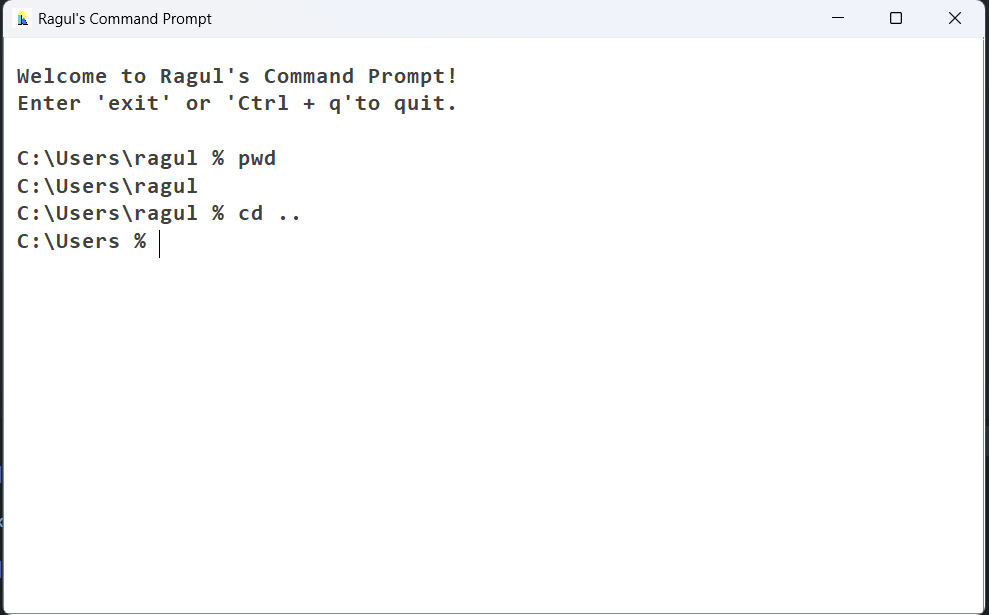
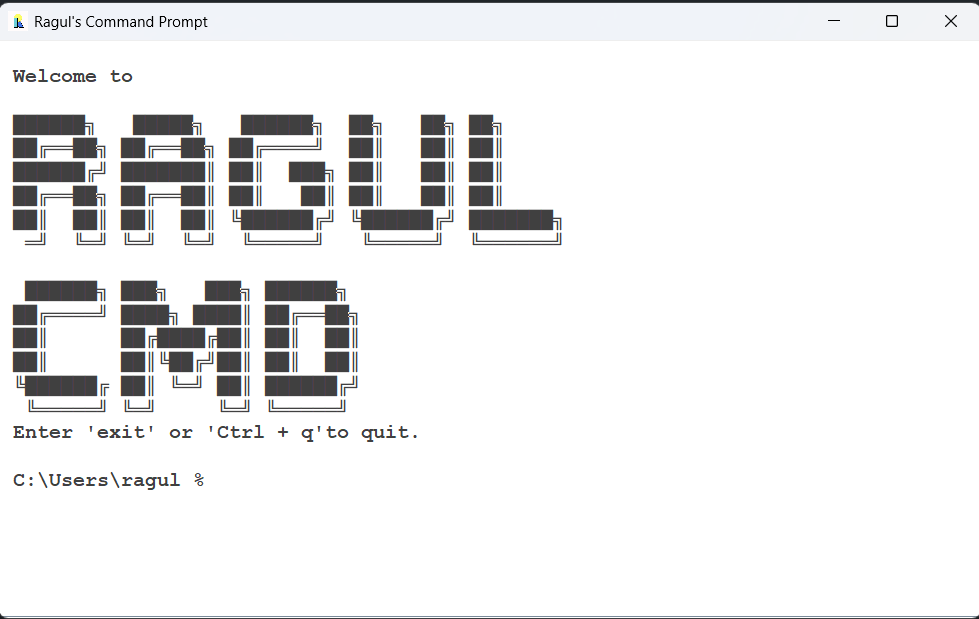
Improved retro style like landing page.

Changed region(s): [[0.0, 0.0, 1.0, 1.0]]

diff --git a/style.css b/style.css
@@ -74,7 +74,7 @@ code {
 
 .screenshot-section h2 {
     margin-bottom: 15px;
-    color: #ff6b6b;
+    color: #e4ff6b;
 }
 
 .screenshot {

diff --git a/CommandPrompt.java b/CommandPrompt.java
@@ -35,9 +35,24 @@ public class CommandPrompt {
         terminalArea.setWrapStyleWord(true);
         terminalArea.setBackground(Color.WHITE);
         terminalArea.setForeground(Color.DARK_GRAY);
-        terminalArea.setFont(new Font("Consolas", Font.BOLD, 18));
-        terminalArea.append("\nWelcome to Ragul's Command Prompt!\n");
-        terminalArea.append("Enter 'exit' or 'Ctrl + q'to quit.\n");
+        terminalArea.setFont(new Font("Courier New", Font.BOLD, 16));
+        terminalArea.append("\nWelcome to\n");
+        terminalArea.append("\n██████╗   █████╗   ██████╗  ██╗   ██╗ ██╗      ");
+        terminalArea.append("\n██╔══██╗ ██╔══██╗ ██╔════╝  ██║   ██║ ██║      ");
+        terminalArea.append("\n██████╔╝ ███████║ ██║  ███╗ ██║   ██║ ██║      ");
+        terminalArea.append("\n██╔══██╗ ██╔══██║ ██║   ██║ ██║   ██║ ██║      ");
+        terminalArea.append("\n██║  ██║ ██║  ██║ ╚██████╔╝ ╚██████╔╝ ███████╗ ");
+        terminalArea.append("\n ═╝  ╚═╝ ╚═╝  ╚═╝  ╚═════╝   ╚═════╝  ╚══════╝ \n");
+
+        terminalArea.append("\n ██████╗ ███╗   ███╗ ██████╗   ");
+        terminalArea.append("\n██╔════╝ ████╗ ████║ ██╔══██╗  ");
+        terminalArea.append("\n██║      ██╔████╔██║ ██║  ██║  ");
+        terminalArea.append("\n██║      ██║╚██╔╝██║ ██║  ██║   ");
+        terminalArea.append("\n╚██████╔ ██║ ╚═╝ ██║ ██████╔╝   ");
+        terminalArea.append("\n ╚═════╝ ╚═╝     ╚═╝ ╚═════╝    ");
+
+
+        terminalArea.append("\nEnter 'exit' or 'Ctrl + q'to quit.\n");
         terminalArea.append("\n");
         terminalArea.setCaretColor(Color.black);
         terminalArea.setBorder(new EmptyBorder(0,10,5,10));
